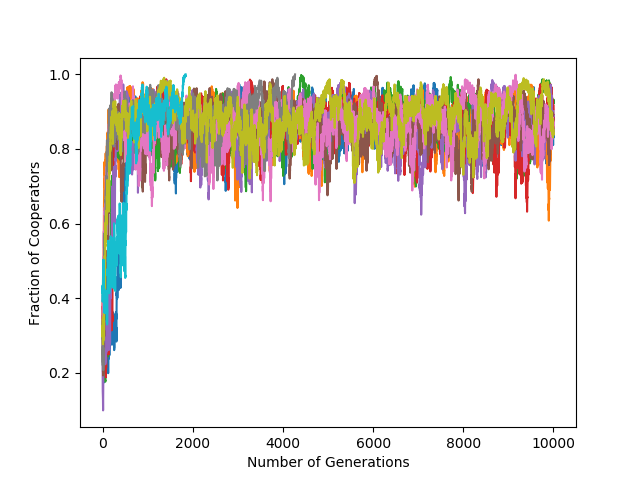
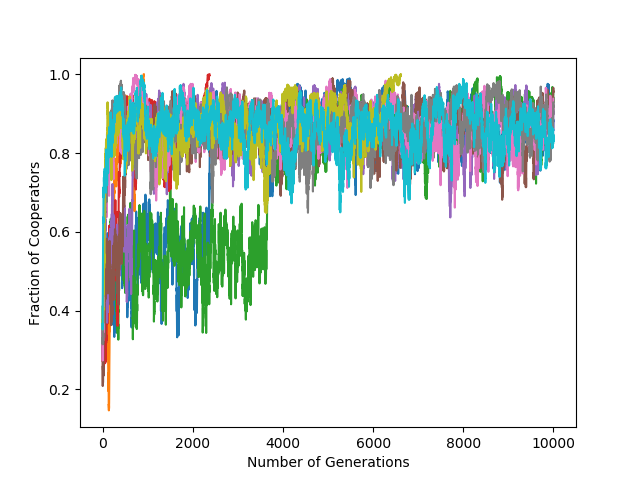
preparar o mrge

diff --git a/Projeto/code/simulation.py b/Projeto/code/simulation.py
@@ -213,7 +213,7 @@ x = graph.Graph()
 string = "baraba_1000.edges"
 x.loadGraphFromFile("../graphs/" + string)
 S = 0
-T = 2.18
+T = 2.16
 
 y = Cooperation_Simulation(x,T,S)
 #print(y.scores)
@@ -221,7 +221,7 @@ y = Cooperation_Simulation(x,T,S)
 #print(y.scores)
 #y.iterateGreedNeig()
 sims = 10
-res = y.run(10000,sims)
+res = y.run(100000,sims)
 print("res",res)
 
 
